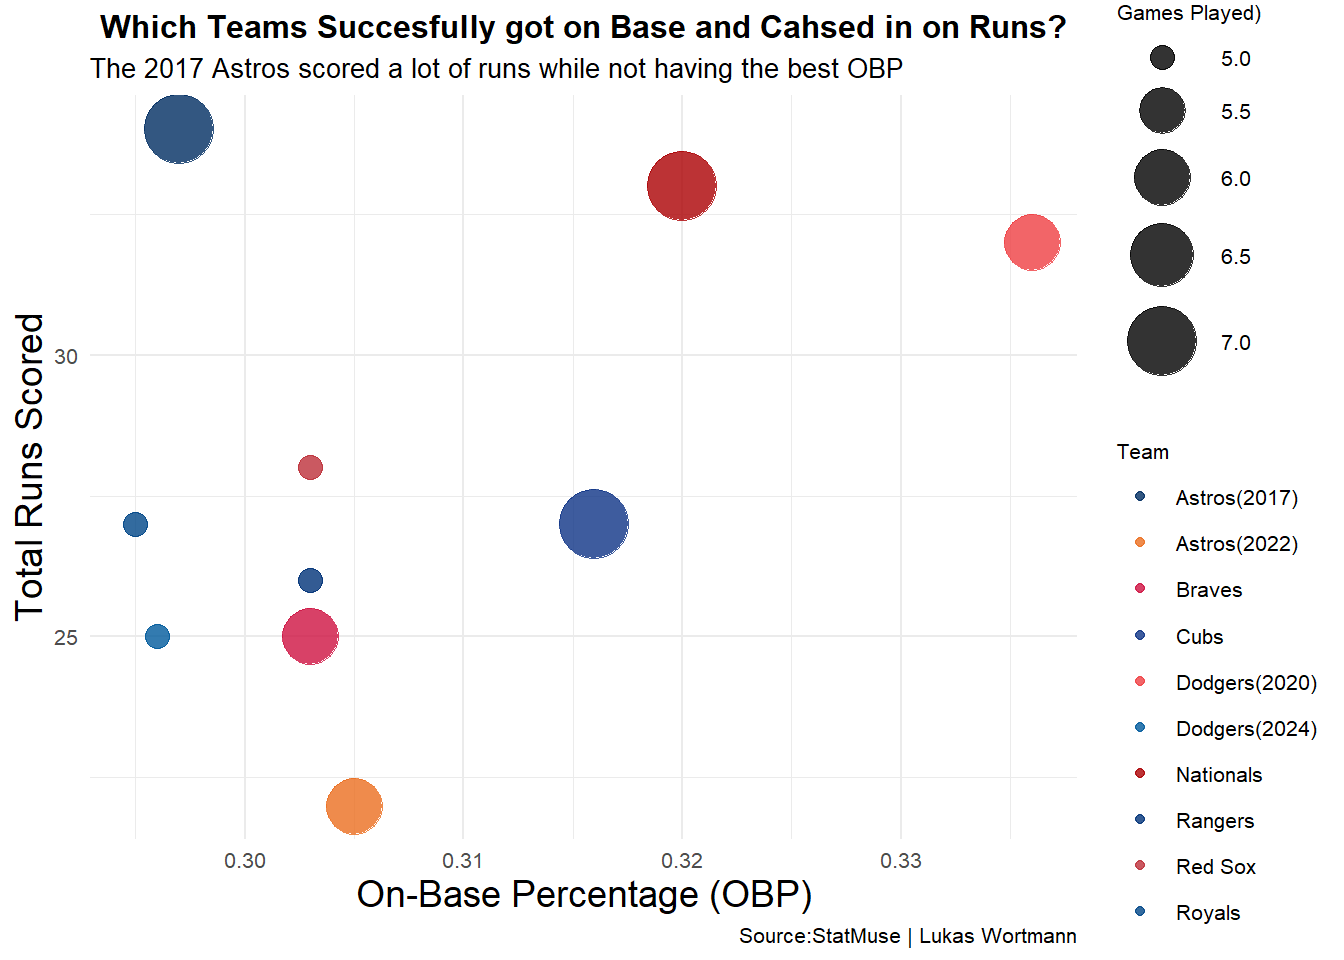
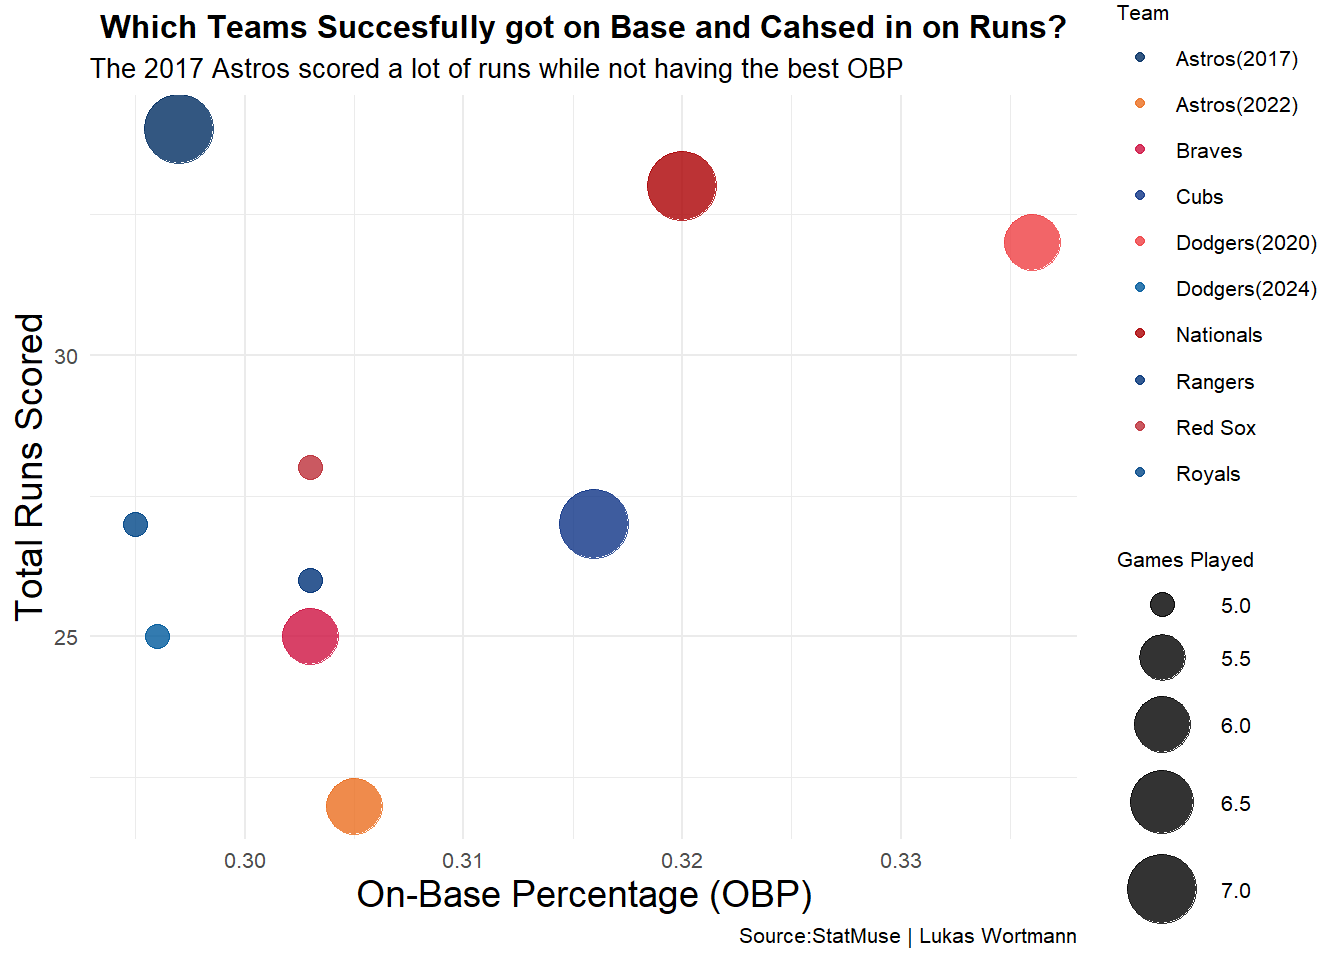
commit

Changed region(s): [[0.8125, 0.5625, 1.0, 0.9688], [0.8125, 0.0, 1.0, 0.4062], [0.8438, 0.4375, 0.9688, 0.5312]]

diff --git a/posts/worldserieswinners/index.html b/posts/worldserieswinners/index.html
@@ -263,7 +263,7 @@ pre > code.sourceCode > span > a:first-child::before { text-decoration: underlin
 <span id="cb2-9"><a href="#cb2-9" aria-hidden="true" tabindex="-1"></a>    <span class="at">x =</span> <span class="st">"On-Base Percentage (OBP)"</span>,</span>
 <span id="cb2-10"><a href="#cb2-10" aria-hidden="true" tabindex="-1"></a>    <span class="at">y =</span> <span class="st">"Total Runs Scored"</span>,</span>
 <span id="cb2-11"><a href="#cb2-11" aria-hidden="true" tabindex="-1"></a>    <span class="at">caption =</span> <span class="st">"Source:StatMuse | Lukas Wortmann"</span>,</span>
-<span id="cb2-12"><a href="#cb2-12" aria-hidden="true" tabindex="-1"></a>    <span class="at">size =</span> <span class="st">"Games Played)"</span>,</span>
+<span id="cb2-12"><a href="#cb2-12" aria-hidden="true" tabindex="-1"></a>    <span class="at">size =</span> <span class="st">"Games Played"</span>,</span>
 <span id="cb2-13"><a href="#cb2-13" aria-hidden="true" tabindex="-1"></a>    <span class="at">color =</span> <span class="st">"Team"</span></span>
 <span id="cb2-14"><a href="#cb2-14" aria-hidden="true" tabindex="-1"></a>  ) <span class="sc">+</span></span>
 <span id="cb2-15"><a href="#cb2-15" aria-hidden="true" tabindex="-1"></a>  <span class="fu">theme</span>(</span>

diff --git a/index.html b/index.html
@@ -205,7 +205,7 @@ window.Quarto = {
 
 <div class="quarto-listing quarto-listing-container-default" id="listing-listing">
 <div class="list quarto-listing-default">
-<div class="quarto-post image-right" data-index="0" data-categories="Baseball,MLB,World Seires,Champions,Rings" data-listing-date-sort="1746248400000" data-listing-file-modified-sort="1746392743270" data-listing-date-modified-sort="NaN" data-listing-reading-time-sort="6" data-listing-word-count-sort="1060">
+<div class="quarto-post image-right" data-index="0" data-categories="Baseball,MLB,World Seires,Champions,Rings" data-listing-date-sort="1746248400000" data-listing-file-modified-sort="1746392873685" data-listing-date-modified-sort="NaN" data-listing-reading-time-sort="6" data-listing-word-count-sort="1060">
 <div class="thumbnail">
 <p><a href="./posts/worldserieswinners/index.html" class="no-external"></a></p><a href="./posts/worldserieswinners/index.html" class="no-external">
 <p><img loading="lazy" src="./posts/worldserieswinners/image.png" class="thumbnail-image"></p>
